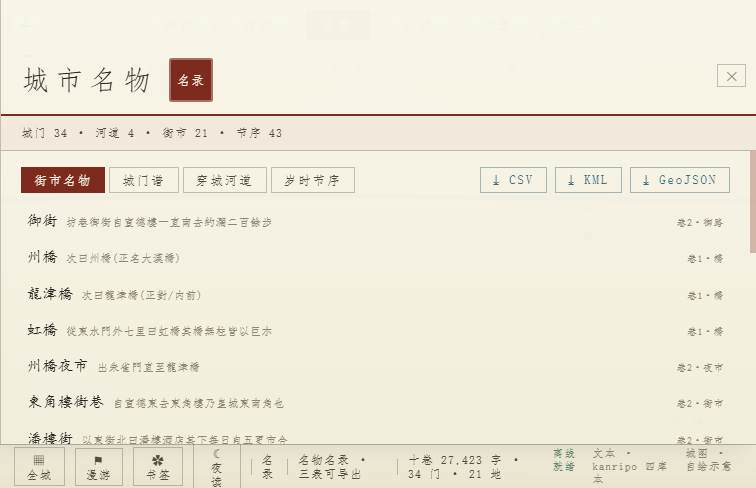
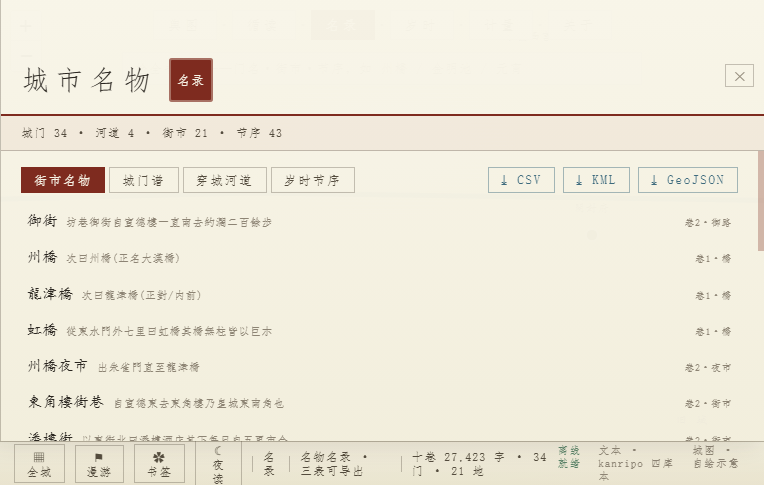
工程纪律: offline_check 收尸按本站 CDP 端口过滤——不误伤并行会话浏览器（LYGL 原版全杀 headless 的多 agent 风险）

diff --git a/tools/offline_check.py b/tools/offline_check.py
@@ -153,10 +153,12 @@ def reap(proc, port):
         except OSError:
             pass
     if sys.platform == "win32":
+        # 只杀本站 CDP 端口的无头实例——并行会话的浏览器不误伤（本会话增补：
+        # LYGL 原版全杀 headless，多 agent 并行时会互相掐进程）
         subprocess.run(["powershell", "-NoProfile", "-Command",
                         "Get-CimInstance Win32_Process | "
-                        "Where-Object {$_.CommandLine -like '*headless*'} | "
-                        "ForEach-Object { Stop-Process -Id $_.ProcessId -Force }"],
+                        "Where-Object {$_.CommandLine -like '*remote-debugging-port=%d*'} | "
+                        "ForEach-Object { Stop-Process -Id $_.ProcessId -Force }" % port],
                        capture_output=True, timeout=30)
     else:
         subprocess.run(["pkill", "-f", "remote-debugging-port=%d" % port],
